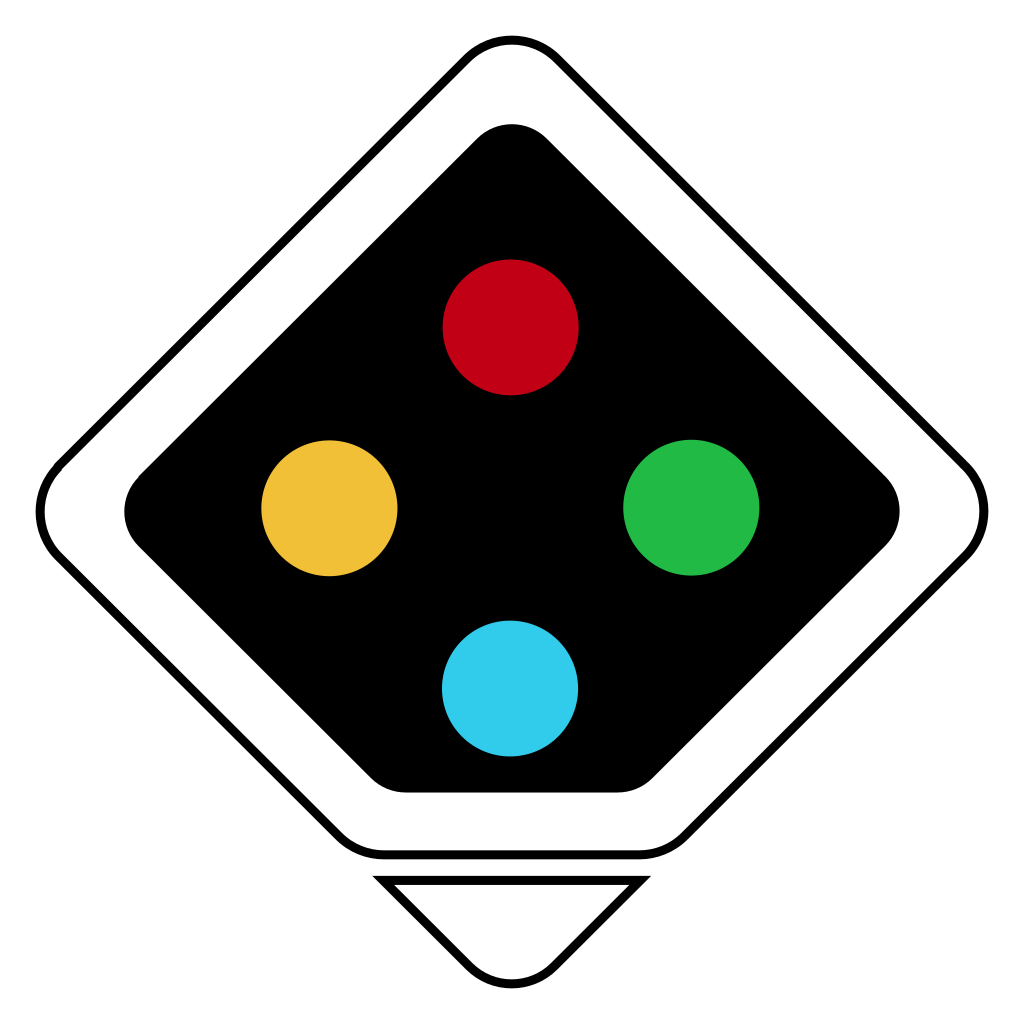
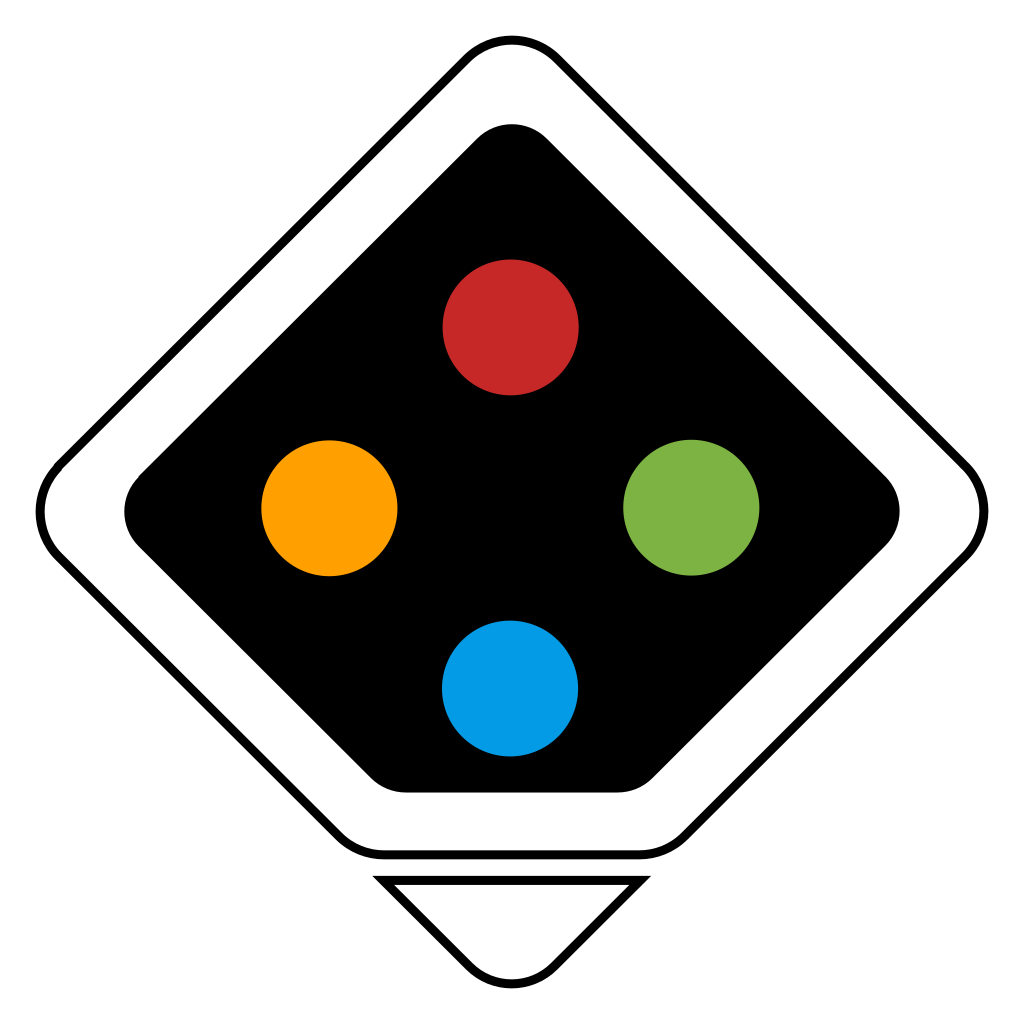
Tweak colors

diff --git a/src/css/quasar.variables.scss b/src/css/quasar.variables.scss
@@ -12,9 +12,9 @@
 // to match your app's branding.
 // Tip: Use the "Theme Builder" on Quasar's documentation website.
 
-$primary: #888;
-$secondary: #aaa;
-$accent: #9c27b0;
+$primary: #9c27b0;
+$secondary: #ab47bc;
+$accent: #fff;
 
 $dark: #1d1d1d;
 $dark-shadow-color: #000;
@@ -24,7 +24,7 @@ $negative: #c10015;
 $info: #31ccec;
 $warning: #f2c037;
 
-$prediction: #c10015;
-$question: #f2c037;
-$reflection: #31ccec;
-$statement: #21ba45;
+$prediction: #c62828;
+$question: #ffca28;
+$reflection: #039be5;
+$statement: #9ccc65;

diff --git a/src/pages/Popup.vue b/src/pages/Popup.vue
@@ -161,14 +161,14 @@ export default {
         label: t("Reflection"),
         icon: "reflection",
         bg: "reflection",
-        fg: "grey-10",
+        fg: "grey-1",
       },
       statement: {
         value: "statement",
         label: t("Statement"),
         icon: "statement",
         bg: "statement",
-        fg: "grey-1",
+        fg: "grey-10",
       },
     };
     const typeOptions = Object.values(types);
